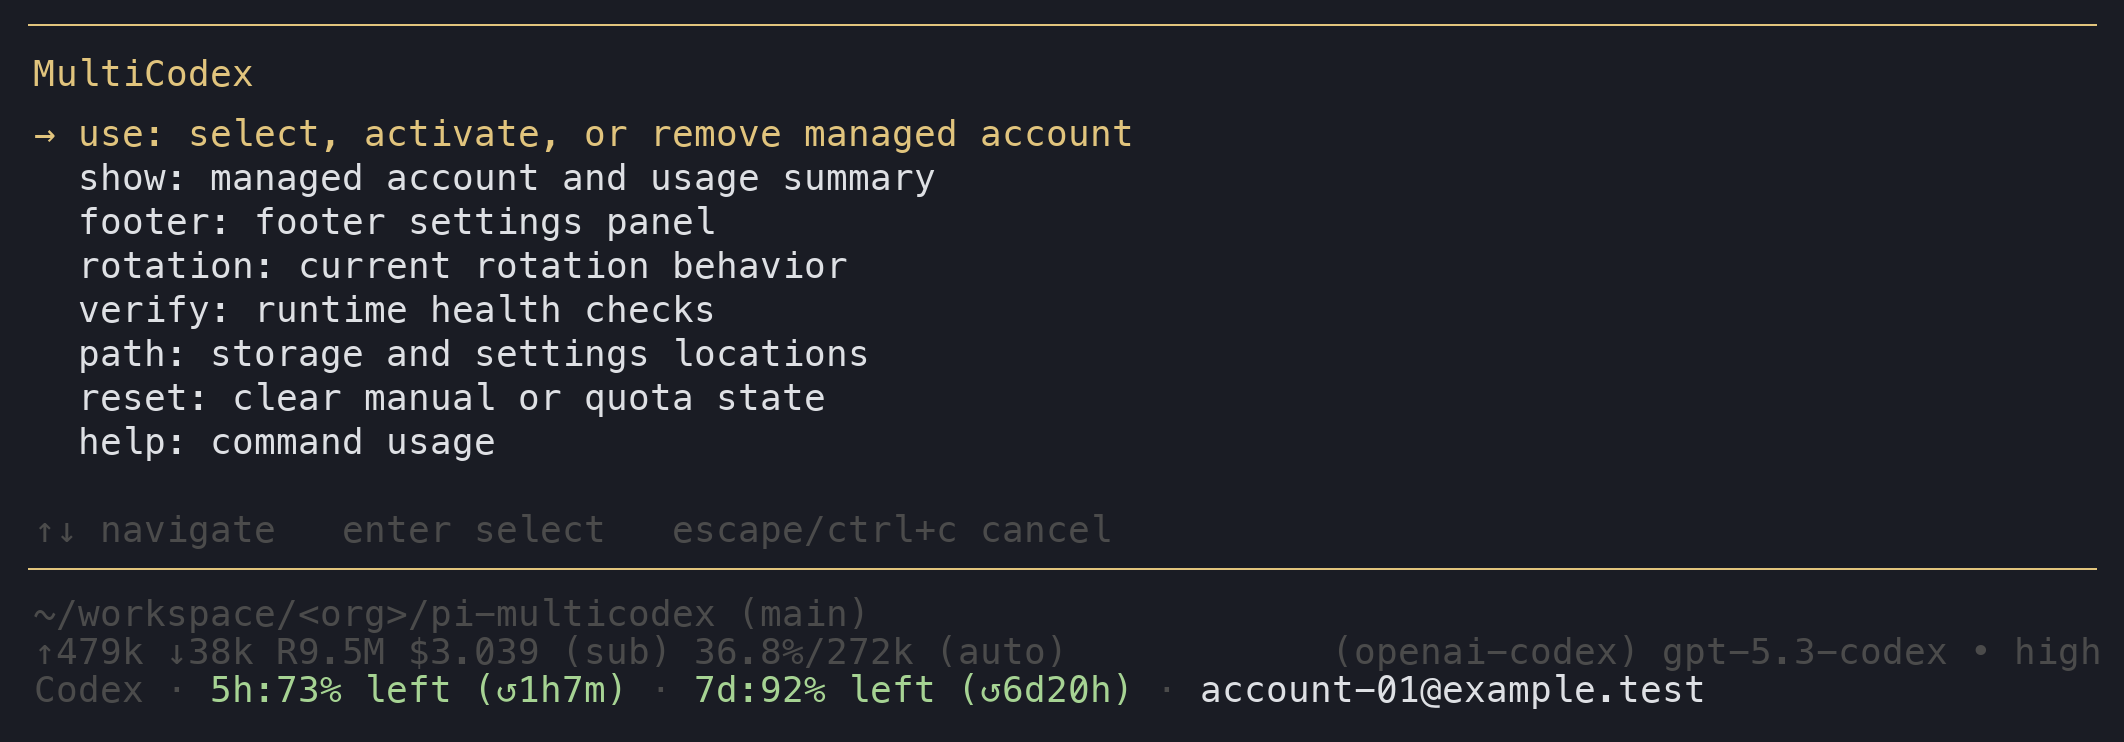
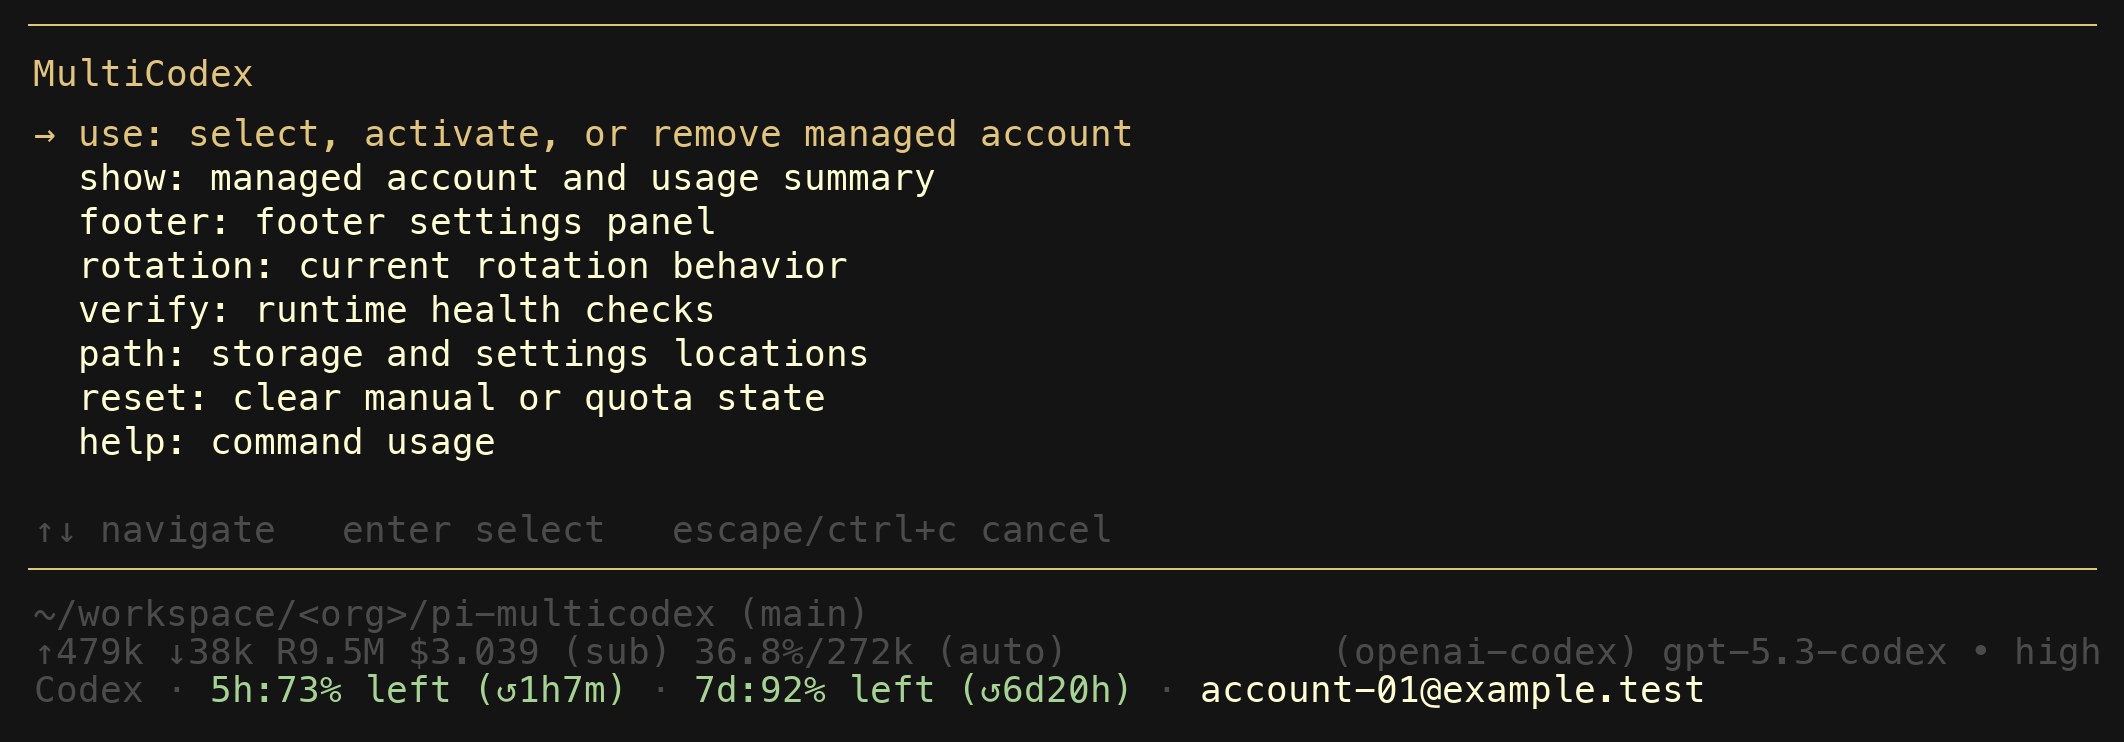
docs: align synthetic screenshots with iTerm2 default background

diff --git a/scripts/generate-synthetic-screenshots.py b/scripts/generate-synthetic-screenshots.py
@@ -12,9 +12,11 @@ from PIL import Image, ImageDraw, ImageFont
 
 OUTPUT_DIR = Path("assets/screenshots")
 
-# Palette aligned to the control-sequence samples provided in chat.
-BG = (26, 28, 36)
-DEFAULT = (222, 224, 228)
+# Palette aligned to your control-sequence samples + current iTerm2 profile.
+# iTerm2 Default profile background: #141414 (20, 20, 20)
+BG = (20, 20, 20)
+# iTerm2 Default profile foreground: #FFFFD4 (255, 255, 212)
+DEFAULT = (255, 255, 212)
 ACCENT = (225, 196, 125)  # 38:2:1:225:196:125
 DIM = (75, 75, 75)  # 38:2:1:75:75:75
 SUCCESS = (166, 211, 147)  # 38:2:1:166:211:147
